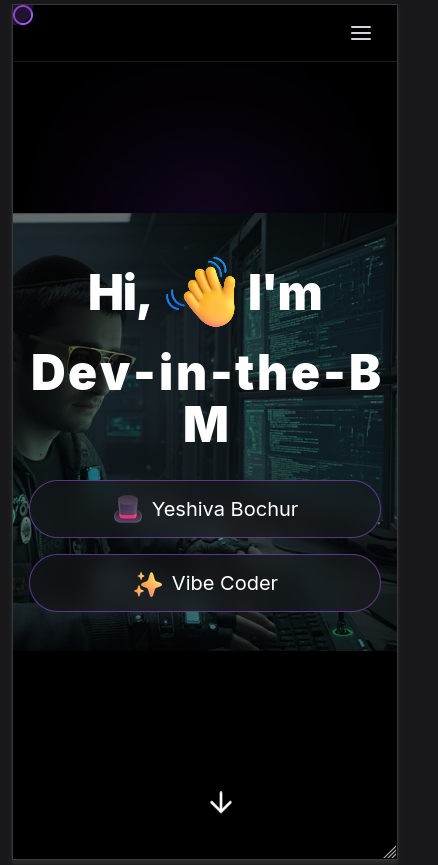
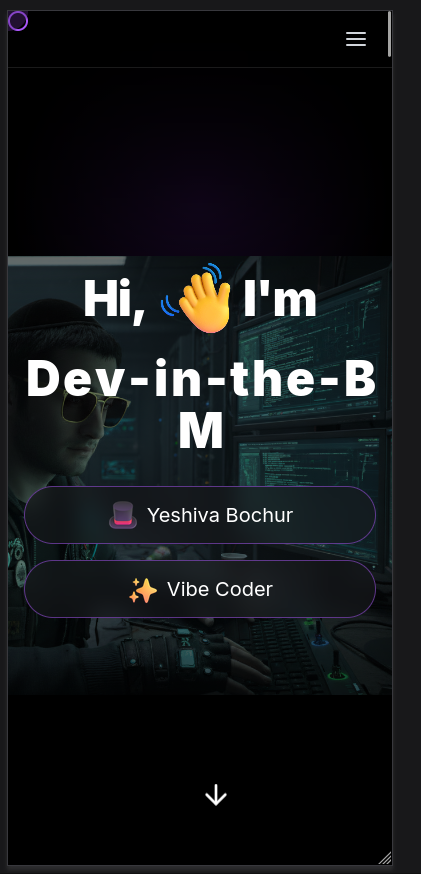
adjusted tinting and fade to black on hero background

diff --git a/index.html b/index.html
@@ -643,19 +643,23 @@
                 height: 100% !important;
                 background-size: 200% auto !important;
                 background-repeat: no-repeat;
-background-position: 85% 50% !important;
+                background-position: 85% 50% !important;
             }
 
             #hero .absolute.inset-0.bg-gradient-to-t {
-                background: linear-gradient(to bottom, black 0%, transparent 45%, transparent 55%, black 100%) !important;
-                z-index: 1;
+                background: linear-gradient(to bottom, 
+                    black 0%, 
+                    rgba(0,0,0,0.7) 30%, 
+                    transparent 50%, 
+                    rgba(0,0,0,0.7) 70%, 
+                    black 100%
+                ) !important;
+                z-index: 2;
             }
 
             #hero .bg-black.opacity-50 {
-                z-index: 1;
+                display: none !important;
             }
-
-
         }
         </style>
 </head>
